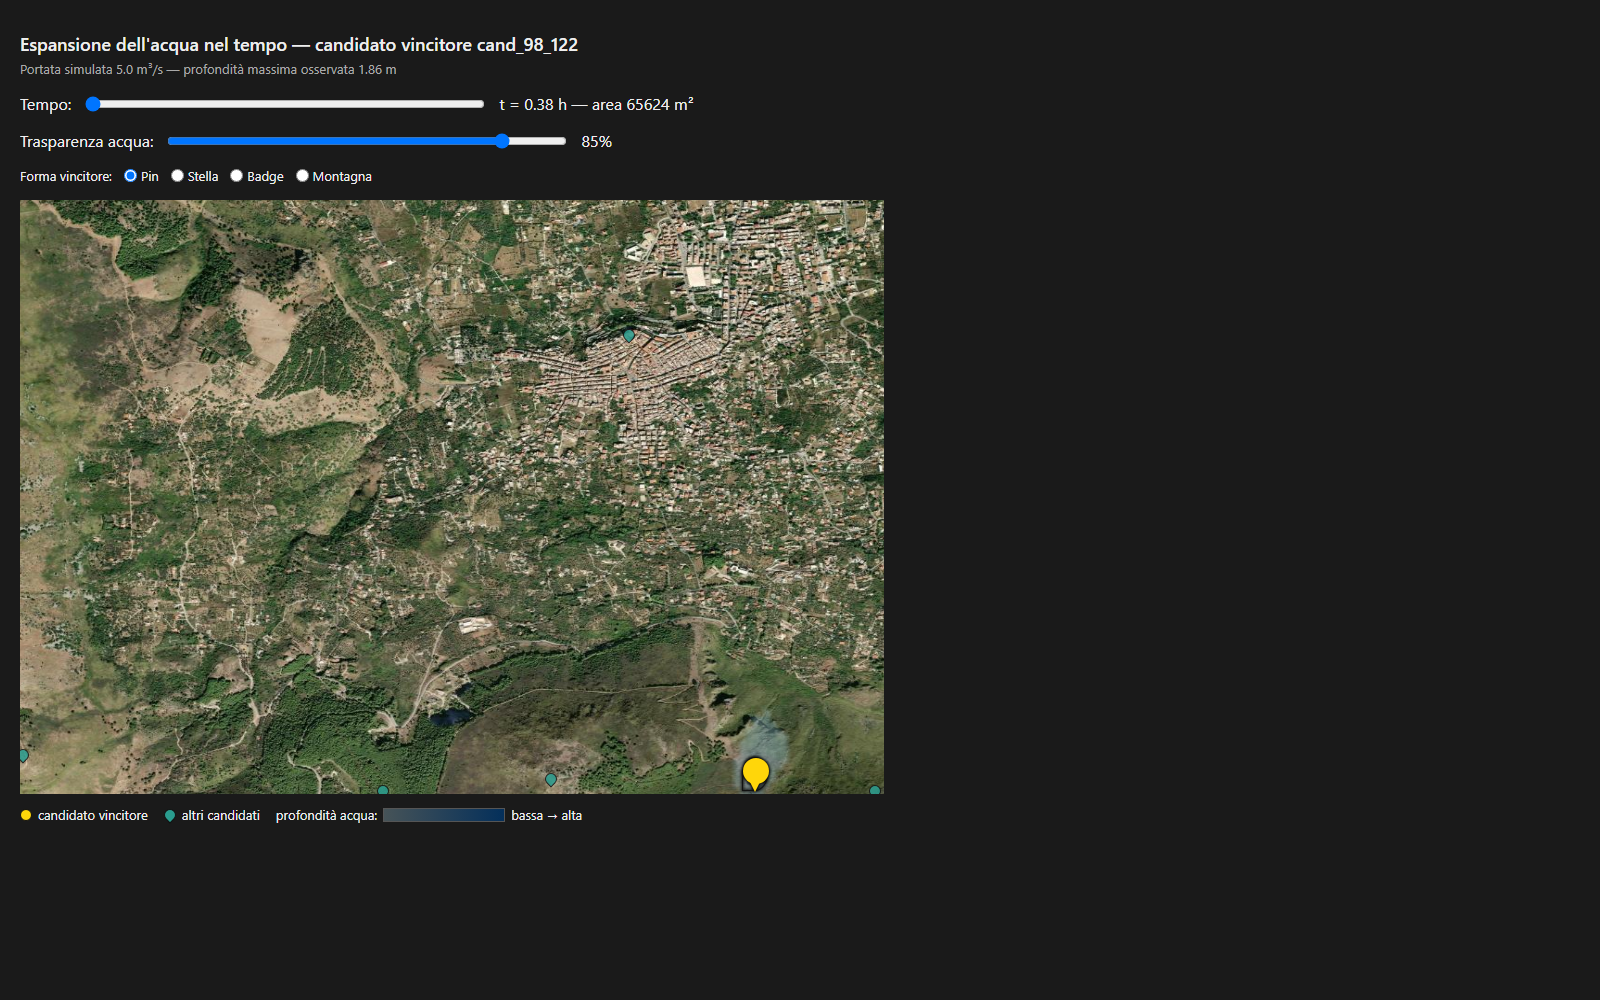
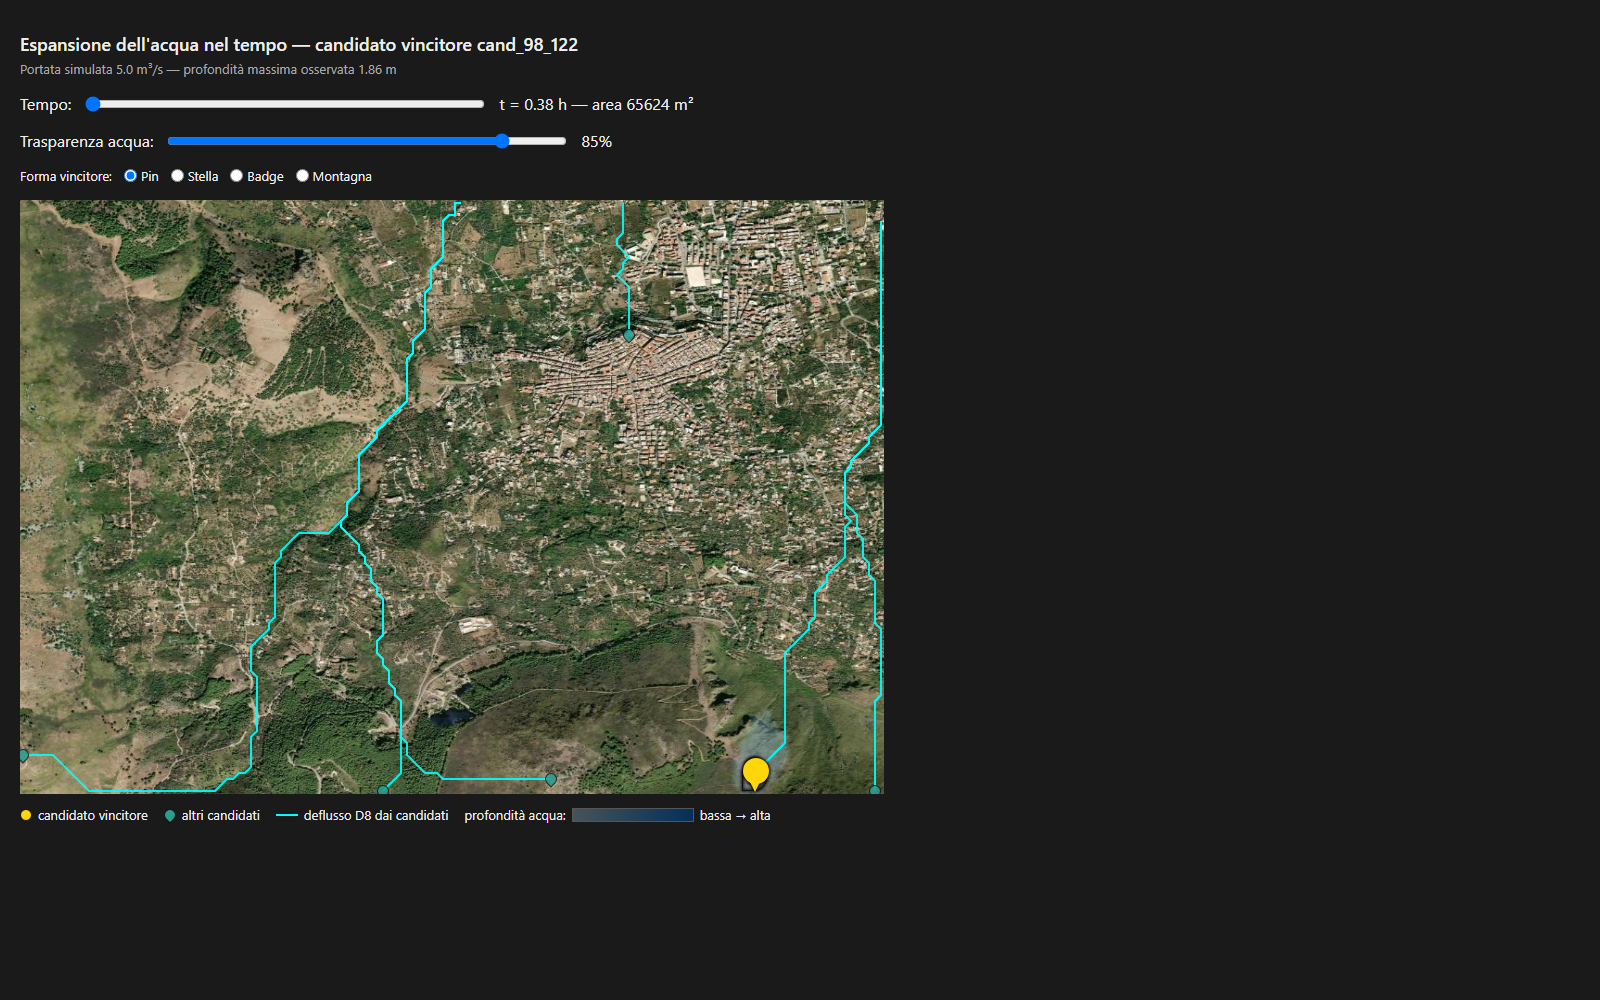
Draw D8 flow paths on the candidate, satellite and time-lapse maps
Same cyan D8 path from each candidate as on the final ranking map (03):
- 01 visualize_dem: paths from valid candidates; title on three lines so
  it no longer runs under the colorbar.
- 06 export_flood_animation_satellite: paths in both GIF and MP4.
- 07 visualize_dem_satellite and 08 visualize_flood_timelapse: SVG layer
  above the images and below the markers, plus a legend entry.
- Regenerated 01, 06, 07, 08 in docs/assets.

Changed region(s): [[0.1875, 0.806, 0.4688, 0.837], [0.25, 0.744, 0.2812, 0.775]]

diff --git a/scripts/visualize_dem_satellite.py b/scripts/visualize_dem_satellite.py
@@ -29,6 +29,7 @@ from app.hydrology.candidate_detection import (
     _estimate_prominence,
     _find_local_maxima,
 )
+from app.hydrology.flow_routing import compute_flow_direction, trace_flow_path
 from app.hydrology.priority_flood import fill_depressions
 from app.ingestion.public_dem import load_dem_from_geotiff
 
@@ -108,6 +109,8 @@ def main() -> None:
     # Candidati per i marker sempre visibili
     maxima = _find_local_maxima(elevation, CANDIDATE_DETECTION_PARAMS["local_max_window_cells"])
     markers_html = []
+    direction = compute_flow_direction(dem_filled)
+    path_polylines = []
     for row, col in maxima:
         prom, border_limited = _estimate_prominence(elevation, row, col)
         area = _compute_watershed_area(elevation, row, col)
@@ -124,6 +127,10 @@ def main() -> None:
             css_class = "border-limited"  # arancione, rombo
         else:
             css_class = "valid"       # verde, cerchio
+
+        if passes:  # percorso di deflusso D8, coordinate = centro cella (colonna, riga)
+            points = " ".join(f"{c + 0.5},{r + 0.5}" for r, c in trace_flow_path(direction, row, col))
+            path_polylines.append(f'<polyline points="{points}" />')
 
         left_pct = (col + 0.5) / n_cols * 100
         top_pct = (row + 0.5) / n_rows * 100
@@ -168,6 +175,10 @@ def main() -> None:
   }}
   .container img {{ position: absolute; top: 0; left: 0; width: {width}px; height: {height}px; display: block; }}
   #demLayer {{ opacity: var(--dem-default-opacity); }}
+  /* Percorsi D8 sopra le immagini, sotto i marker */
+  .flow-paths {{ position: absolute; top: 0; left: 0; width: {width}px; height: {height}px; z-index: 5; pointer-events: none; }}
+  .flow-paths polyline {{ fill: none; stroke: cyan; stroke-width: 2; stroke-opacity: 0.9; vector-effect: non-scaling-stroke; }}
+  .legend-line {{ width: 22px; height: 0; border-top: 2px solid cyan; flex-shrink: 0; }}
 
   .marker {{
     position: absolute;
@@ -211,12 +222,14 @@ def main() -> None:
   <div class="container">
     <img id="satelliteLayer" src="{to_data_uri(satellite_bytes)}" alt="satellite">
     <img id="demLayer" src="{to_data_uri(dem_png)}" alt="dem">
+    <svg class="flow-paths" viewBox="0 0 {n_cols} {n_rows}" preserveAspectRatio="none">{''.join(path_polylines)}</svg>
     {''.join(markers_html)}
   </div>
   <div class="legend">
     <div class="legend-item"><span class="legend-swatch valid"></span> candidato valido (sella reale)</div>
     <div class="legend-item"><span class="legend-swatch border-limited"></span> candidato valido (limite bordo)</div>
     <div class="legend-item"><span class="legend-swatch discarded"></span> scartato</div>
+    <div class="legend-item"><span class="legend-line"></span> deflusso D8 dai candidati validi</div>
   </div>
 <script>
   const slider = document.getElementById('opacitySlider');

diff --git a/scripts/visualize_flood_timelapse.py b/scripts/visualize_flood_timelapse.py
@@ -24,6 +24,7 @@ from app.agents.ranking_agent import RankingAgent
 from app.core.naming import timestamped_filename
 from app.hydrology.candidate_detection import detect_candidates
 from app.hydrology.cellular_automata import FLOOD_SIM_PARAMS, simulate_flood_with_snapshots
+from app.hydrology.flow_routing import compute_flow_direction, trace_flow_path
 from app.hydrology.priority_flood import fill_depressions
 from app.ingestion.public_dem import load_dem_from_geotiff
 
@@ -154,7 +155,12 @@ def main() -> None:
 
     # Marker di tutti i candidati (goccia), vincitore evidenziato
     markers_html = []
+    direction = compute_flow_direction(dem_filled)
+    path_polylines = []
     for c in candidates:
+        # percorso di deflusso D8, coordinate = centro cella (colonna, riga)
+        points = " ".join(f"{col + 0.5},{row + 0.5}" for row, col in trace_flow_path(direction, c.row, c.col))
+        path_polylines.append(f'<polyline points="{points}" />')
         is_winner = c.id == winner_id
         css_class = "winner shape-pin" if is_winner else "other"
         left_pct = (c.col + 0.5) / n_cols * 100
@@ -193,6 +199,10 @@ def main() -> None:
   }}
   .container img {{ position: absolute; top: 0; left: 0; width: {width}px; height: {height}px; display: block; }}
   #waterLayer {{ opacity: 0.85; }}
+  /* Percorsi D8 sopra acqua e satellite, sotto i marker */
+  .flow-paths {{ position: absolute; top: 0; left: 0; width: {width}px; height: {height}px; z-index: 5; pointer-events: none; }}
+  .flow-paths polyline {{ fill: none; stroke: cyan; stroke-width: 2; stroke-opacity: 0.9; vector-effect: non-scaling-stroke; }}
+  .legend-line {{ width: 22px; height: 0; border-top: 2px solid cyan; flex-shrink: 0; }}
 
   .marker {{
     position: absolute;
@@ -349,12 +359,14 @@ def main() -> None:
   <div class="container">
     <img id="satelliteLayer" src="{to_data_uri(satellite_bytes)}" alt="satellite">
     <img id="waterLayer" src="{frame_data_uris[0]}" alt="acqua">
+    <svg class="flow-paths" viewBox="0 0 {n_cols} {n_rows}" preserveAspectRatio="none">{''.join(path_polylines)}</svg>
     {''.join(markers_html)}
   </div>
 
   <div class="legend">
     <div class="legend-item"><span class="legend-swatch winner"></span> candidato vincitore</div>
     <div class="legend-item"><span class="legend-swatch other"></span> altri candidati</div>
+    <div class="legend-item"><span class="legend-line"></span> deflusso D8 dai candidati</div>
     <div class="legend-item">profondità acqua: <span class="legend-gradient"></span> bassa &rarr; alta</div>
   </div>
 

diff --git a/scripts/export_flood_animation_satellite.py b/scripts/export_flood_animation_satellite.py
@@ -25,6 +25,7 @@ from app.agents.ranking_agent import RankingAgent
 from app.core.naming import timestamped_filename
 from app.hydrology.candidate_detection import detect_candidates
 from app.hydrology.cellular_automata import FLOOD_SIM_PARAMS, simulate_flood_with_snapshots
+from app.hydrology.flow_routing import compute_flow_direction, trace_flow_path
 from app.hydrology.priority_flood import fill_depressions
 from app.ingestion.public_dem import load_dem_from_geotiff
 
@@ -66,6 +67,10 @@ def main() -> None:
     winner = next(c for c in candidates if c.id == winner_id)
     print(f"Vincitore: {winner_id}")
 
+    # Percorsi di deflusso D8 da ogni candidato, come nella mappa finale (linee ciano)
+    direction = compute_flow_direction(dem_filled)
+    flow_paths = [np.array(trace_flow_path(direction, c.row, c.col)) for c in candidates]
+
     print(f"Simulo con {N_FRAMES} frame per l'animazione...")
     result, frames = simulate_flood_with_snapshots(dem_filled, winner, n_snapshots=N_FRAMES)
     if not frames:
@@ -85,6 +90,8 @@ def main() -> None:
 
     fig, ax = plt.subplots(figsize=(9, 7))
     ax.imshow(satellite_arr, extent=[-0.5, n_cols - 0.5, n_rows - 0.5, -0.5])
+    for path in flow_paths:
+        ax.plot(path[:, 1], path[:, 0], color="cyan", linewidth=1.2, alpha=0.9, zorder=4)
     ax.plot(winner.col, winner.row, "*", color="gold", markersize=20, markeredgecolor="black", zorder=5)
     ax.set_xlabel("colonna")
     ax.set_ylabel("riga")
@@ -123,6 +130,8 @@ def main() -> None:
         mp4_path = out_path.with_suffix(".mp4")
         fig2, ax2 = plt.subplots(figsize=(9, 7))
         ax2.imshow(satellite_arr, extent=[-0.5, n_cols - 0.5, n_rows - 0.5, -0.5])
+        for path in flow_paths:
+            ax2.plot(path[:, 1], path[:, 0], color="cyan", linewidth=1.2, alpha=0.9, zorder=4)
         ax2.plot(winner.col, winner.row, "*", color="gold", markersize=20, markeredgecolor="black", zorder=5)
         water_im2 = ax2.imshow(
             np.ma.masked_all_like(elevation), cmap="Blues", alpha=0.8, origin="upper",

diff --git a/scripts/visualize_dem.py b/scripts/visualize_dem.py
@@ -20,6 +20,7 @@ from app.hydrology.candidate_detection import (
     _estimate_prominence,
     _find_local_maxima,
 )
+from app.hydrology.flow_routing import compute_flow_direction, trace_flow_path
 from app.hydrology.priority_flood import fill_depressions
 from app.ingestion.public_dem import load_dem_from_geotiff
 
@@ -32,6 +33,8 @@ maxima = _find_local_maxima(elev, CANDIDATE_DETECTION_PARAMS["local_max_window_c
 fig, ax = plt.subplots(figsize=(10, 7))
 im = ax.imshow(elev, cmap="terrain", origin="upper")
 plt.colorbar(im, ax=ax, label="Quota (m)")
+
+direction = compute_flow_direction(dem_filled)
 
 for row, col in maxima:
     prom, border_limited = _estimate_prominence(elev, row, col)
@@ -47,7 +50,10 @@ for row, col in maxima:
     else:
         color = "lime"         # accettato, prominenza reale misurata internamente
 
-    ax.plot(col, row, "o", color=color, markersize=8, markeredgecolor="black")
+    if passes:  # percorso di deflusso D8 dai candidati validi, come nella mappa finale
+        path = np.array(trace_flow_path(direction, row, col))
+        ax.plot(path[:, 1], path[:, 0], color="cyan", linewidth=1.2, alpha=0.9, zorder=3)
+    ax.plot(col, row, "o", color=color, markersize=8, markeredgecolor="black", zorder=4)
     ax.annotate(
         f"{elev[row,col]:.0f}m\nprom={'>=' if border_limited else ''}{prom:.1f}",
         (col, row),
@@ -63,8 +69,9 @@ idx = np.unravel_index(np.argmax(elev), elev.shape)
 ax.plot(idx[1], idx[0], "*", color="cyan", markersize=18, markeredgecolor="black", zorder=5)
 
 ax.set_title(
-    f"DEM {elev.shape[0]}x{elev.shape[1]} — verde=valido, arancione=valido (bordo tronca la sella), "
-    f"rosso=scartato, stella ciano=quota massima assoluta"
+    f"DEM {elev.shape[0]}x{elev.shape[1]} — verde=valido, arancione=valido (bordo tronca la sella),\n"
+    f"rosso=scartato, stella ciano=quota massima assoluta,\n"
+    f"linee ciano=deflusso D8 dai candidati validi"
 )
 ax.set_xlabel("colonna")
 ax.set_ylabel("riga")
